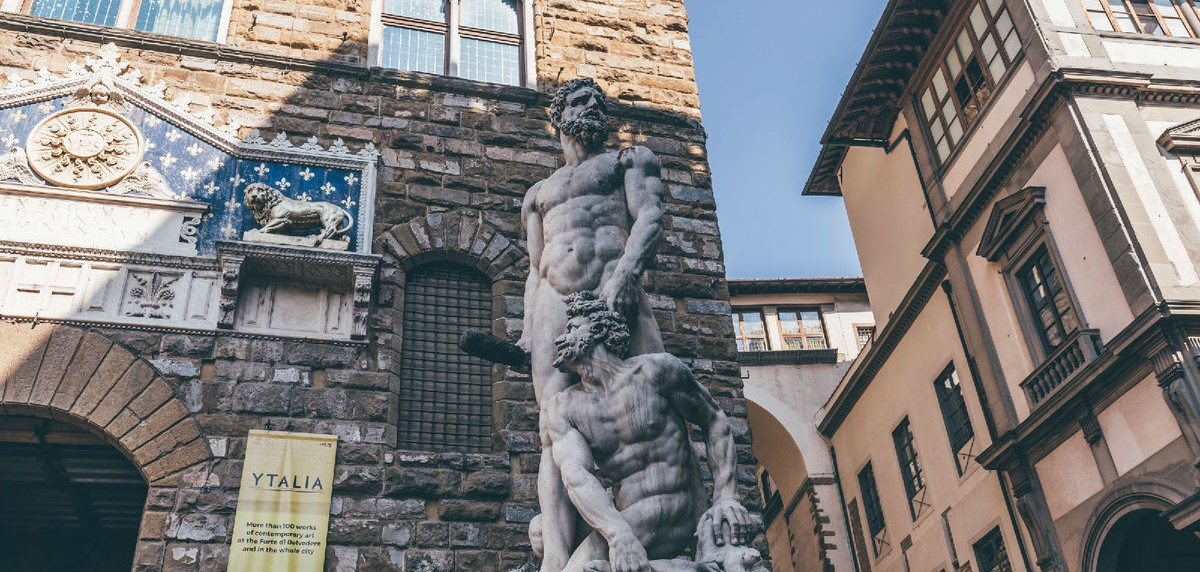
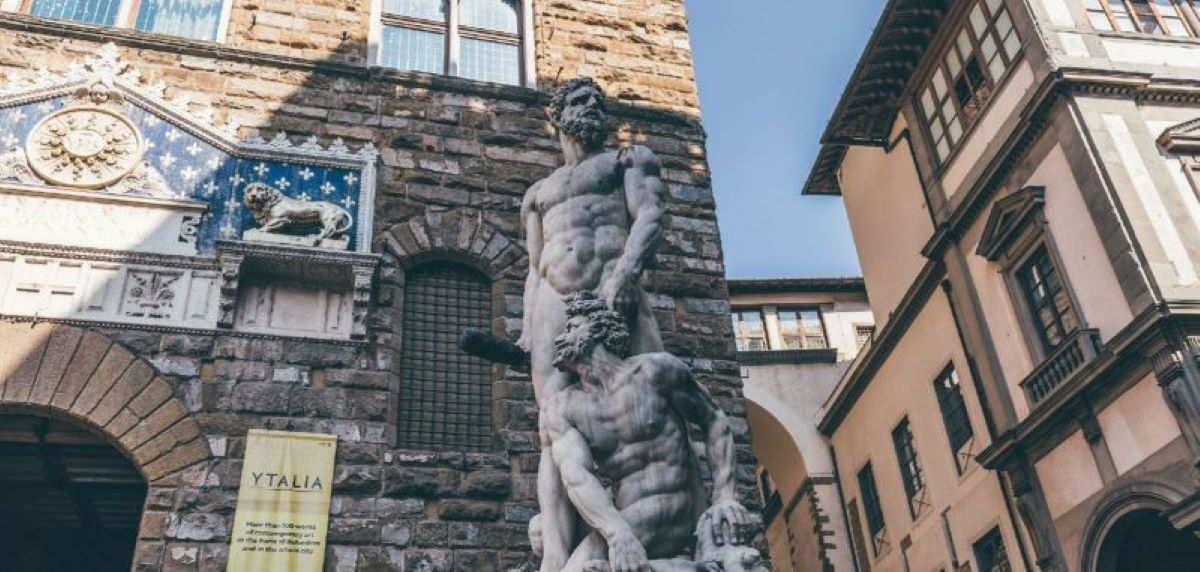
Site updated: 2020-02-03 23:36:19

diff --git a/2020/01/29/image/index.html b/2020/01/29/image/index.html
@@ -15,15 +15,15 @@
 
 
 
-<meta name="description" content="Storia di Hercules">
+<meta name="description" content="Storia di Hercules&amp;nbsp;">
 <meta property="og:type" content="article">
 <meta property="og:title" content="海克力斯">
 <meta property="og:url" content="http://yoursite.com/2020/01/29/image/index.html">
 <meta property="og:site_name" content="NutoFinche&#39;s blog">
-<meta property="og:description" content="Storia di Hercules">
+<meta property="og:description" content="Storia di Hercules&amp;nbsp;">
 <meta property="og:image" content="http://yoursite.com/2020/01/29/image/hcris2.jpg">
 <meta property="article:published_time" content="2020-01-29T10:00:51.000Z">
-<meta property="article:modified_time" content="2020-02-03T12:00:58.726Z">
+<meta property="article:modified_time" content="2020-02-03T15:33:58.777Z">
 <meta property="article:author" content="NutoFinche">
 <meta name="twitter:card" content="summary">
 <meta name="twitter:image" content="http://yoursite.com/2020/01/29/image/hcris2.jpg">
@@ -234,16 +234,20 @@
     <div class="article-entry" itemprop="articleBody">
       
           
-        <p><img src="/2020/01/29/image/hcris2.jpg" alt></p>
-<h1 id="Storia-di-Hercules"><a href="#Storia-di-Hercules" class="headerlink" title="Storia di Hercules"></a>Storia di Hercules</h1><br>
+        <div align="center">
+  <img src="/2020/01/29/image/hcris2.jpg" title="hercules" alt="hercules">
+</div>
+
+
+<h4 id="Storia-di-Hercules-nbsp"><a href="#Storia-di-Hercules-nbsp" class="headerlink" title=" Storia di Hercules&nbsp;"></a><p align="right"> Storia di Hercules&nbsp;</p></h4><br>
 <a id="more"></a>
 
 <blockquote>
-<p>&nbsp;&nbsp;他没什么智慧，却有丰富的情感，而且很容易冲动和失控，比如阿果号那一次，由于箭童许拉斯之死，他竟沉溺在绝望与哀伤之中，完全忘了其他同伴和此行的任务。<br>一个如此强壮的人，搭配如此深沉的情感，这种奇异的组合虽然令人喜爱，却也是一种祸害。<br>他如果突然一生气，旁边无辜的人就会遭殃。不过等他冷静下来，他就会真心诚意地忏悔，而且甘心接受惩罚。他若不同意，谁也无法惩罚他。<br><b>世间大概也没人像他那样，一辈子不断遭受惩罚。他一生大部分时间都在弥补过错，接受一次又一次的惩罚。有时即使别人不想惩罚他，他也会自己惩罚自己。</b></p>
+<p>他没什么智慧，却有丰富的情感，而且很容易冲动和失控，比如阿果号那一次，由于箭童许拉斯之死，他竟沉溺在绝望与哀伤之中，完全忘了其他同伴和此行的任务。<br>一个如此强壮的人，搭配如此深沉的情感，这种奇异的组合虽然令人喜爱，却也是一种祸害。<br>他如果突然一生气，旁边无辜的人就会遭殃。不过等他冷静下来，他就会真心诚意地忏悔，而且甘心接受惩罚。他若不同意，谁也无法惩罚他。<br><b>世间大概也没人像他那样，一辈子不断遭受惩罚。他一生大部分时间都在弥补过错，接受一次又一次的惩罚。有时即使别人不想惩罚他，他也会自己惩罚自己。</b></p>
 </blockquote>
 <p>&nbsp;</p>
 <blockquote>
-<p>&nbsp;&nbsp;&nbsp;&nbsp;“我该饶自己一命吗？”他说，“我一定要杀死自己，为死者报仇。”<br>      就在他要冲出去自杀，或者就在他开始动手之前，他原来绝望的心产生了改变，他的生命也得以保全。这个如假包换的奇迹召回了海克力斯的神智，使他从暂时的疯狂与暴力中清醒过来，忧伤地接<br>受了现实。创造这奇迹的，不是天上的众神，而是人类之间的友谊。原来忒修斯走到海克力斯面前，紧握着海克力斯染血的手。<br>根据希腊人的想法，忒修斯这个举动不但污染了自己，也分担了海克力斯部分的罪。<br>    &nbsp;&nbsp;&nbsp;&nbsp;“别害怕，别后退，”忒修斯跟海克力斯说，<b>“不要阻止我跟你分担一切。对我来说，跟你分担的恶并不是恶。听我说，灵魂强大的人能承受命运的打击，永不后退。</b>”<br>     &nbsp;&nbsp;&nbsp;&nbsp;“你知道我做了什么吗?”海克力斯问。<br>     &nbsp;&nbsp;&nbsp;&nbsp;“我知道，”忒修斯答道，“你的忧伤弥漫于天地之间。”<br>     &nbsp;&nbsp;&nbsp;&nbsp;“我理当一死。”海克力斯说。<br>     &nbsp;&nbsp;&nbsp;&nbsp;“英雄不该讲这种话。”忒修斯说。<br>     &nbsp;&nbsp;&nbsp;&nbsp;“除了死，我还能做什么？”海克力斯叫道，“活下去吗？一个被贴了标签的人该怎么活下去？大家会说:‘看哪，那个杀了妻儿的人’。不论我走到哪里，哪里就有狱卒，哪里就有像蝎子那么毒舌的人。</p>
+<p>&nbsp;&nbsp;&nbsp;&nbsp;“我该饶自己一命吗？” 他说，“我一定要杀死自己，为死者报仇。”<br>      就在他要冲出去自杀，或者就在他开始动手之前，他原来绝望的心产生了改变，他的生命也得以保全。这个如假包换的奇迹召回了海克力斯的神智，使他从暂时的疯狂与暴力中清醒过来，忧伤地接受了现实。创造这奇迹的，不是天上的众神，而是人类之间的友谊。原来忒修斯走到海克力斯面前，紧握着海克力斯染血的手。<br>根据希腊人的想法，忒修斯这个举动不但污染了自己，也分担了海克力斯部分的罪。<br>    &nbsp;&nbsp;&nbsp;&nbsp;“别害怕，别后退，” 忒修斯跟海克力斯说，“不要阻止我跟你分担一切。<b>对我来说，跟你分担的恶并不是恶。听我说，灵魂强大的人能承受命运的打击，永不后退。</b>”<br>     &nbsp;&nbsp;&nbsp;&nbsp;“你知道我做了什么吗?” 海克力斯问。<br>     &nbsp;&nbsp;&nbsp;&nbsp;“我知道，” 忒修斯答道，“你的忧伤弥漫于天地之间。”</p>
 </blockquote>
 <p>&nbsp;</p>
 <blockquote>
@@ -251,7 +255,7 @@
 </blockquote>
 <p>&nbsp;</p>
 <blockquote>
-<p><b>火焰向上燃烧，吞没了海克力斯。他升了天。<br>他终于与赫拉和解。</b></p>
+<p>“这是休息，” 他说，“这是结束。” 他们把他送到柴堆顶端，他很高兴地躺下来，犹如参加宴会的人躺在卧榻上一样。<br><b>火焰向上燃烧，吞没了海克力斯。</b><br>他升了天。他终于与赫拉和解。</p>
 </blockquote>
 <br>
 <p align="right">-- 《希腊罗马神话》伊迪斯·汉密尔顿 </p>
@@ -281,7 +285,7 @@
     <div id="toc" class="toc-article">
         <strong class="toc-title">文章目录</strong>
         
-            <ol class="toc"><li class="toc-item toc-level-1"><a class="toc-link" href="#Storia-di-Hercules"><span class="toc-number">1.</span> <span class="toc-text">Storia di Hercules</span></a></li></ol>
+            <ol class="toc"><li class="toc-item toc-level-4"><a class="toc-link" href="#Storia-di-Hercules-nbsp"><span class="toc-number">1.</span> <span class="toc-text"> Storia di Hercules&amp;nbsp;</span></a></li></ol>
         
     </div>
     <style>

diff --git a/css/style.css b/css/style.css
@@ -118,7 +118,7 @@ button::-moz-focus-inner {
   padding: 0;
 }
 html {
-  font-size: 14px;
+  font-size: 15px;
 }
 body {
   font-family: "Lucida Grande", Verdana, "Helvetica Neue", Arial, "Microsoft YaHei", "PingFang SC", "Hiragino Sans GB", "WenQuanYi Micro Hei", sans-serif;
@@ -552,7 +552,7 @@ a {
   text-align: center;
   margin: 13px 0;
   font-family: Times, Georgia, serif;
-  font-size: 28px;
+  font-size: 29px;
   -webkit-transition: 0.3s;
   -moz-transition: 0.3s;
   -ms-transition: 0.3s;
@@ -572,8 +572,8 @@ a {
   display: block;
   border: 5px solid #fff;
   border-radius: 50%;
-  width: 126px;
-  height: 126px;
+  width: 127px;
+  height: 127px;
   margin: 0 auto;
   position: relative;
   overflow: hidden;
@@ -751,13 +751,13 @@ a {
   font-family: Arial;
 }
 #header .header-nav .social a {
-  width: 35px;
-  height: 35px;
+  width: 36px;
+  height: 36px;
   border-radius: 50%;
   margin: 0 2px 6px;
   vertical-align: middle;
-  font-size: 23.1px;
-  line-height: 35px;
+  font-size: 23.76px;
+  line-height: 36px;
   text-align: center;
   color: #fff;
   background: #6f7170;
@@ -1205,7 +1205,7 @@ color
   color: #999;
   position: relative;
   margin-right: 10px;
-  font: 14px FontAwesome;
+  font: 15px FontAwesome;
 }
 .archive-article-inner .article-meta .article-category:before {
   float: left;
@@ -1694,7 +1694,7 @@ li:hover {
   bottom: 1em;
   left: 0;
   margin-left: 0;
-  padding: 6px 10px 10px 54px;
+  padding: 6px 10px 10px 52px;
   border-radius: 2.8%;
   overflow: auto;
 }
@@ -2059,7 +2059,7 @@ aside.comment-bar:active {
   color: #999;
   position: relative;
   margin-right: 10px;
-  font: 14px FontAwesome;
+  font: 15px FontAwesome;
 }
 .archive-article-inner .article-meta .article-category:before {
   float: left;
@@ -2831,7 +2831,7 @@ pre .javascript .function {
 .article-category::before {
   float: left;
   color: #999;
-  font: 14px FontAwesome;
+  font: 15px FontAwesome;
   margin-right: 5px;
   margin-top: 0.333333333333333rem;
 }
@@ -2848,7 +2848,7 @@ pre .javascript .function {
 .article-pop-out:before {
   color: #999;
   content: "\f08d";
-  font: 14px FontAwesome;
+  font: 15px FontAwesome;
   float: left;
   margin-right: 5px;
   margin-top: 0.333333333333333rem;

diff --git a/index.html b/index.html
@@ -231,8 +231,12 @@
     <div class="article-entry" itemprop="articleBody">
       
           
-              <p><img src="/2020/01/29/image/hcris2.jpg" alt></p>
-<h1 id="Storia-di-Hercules"><a href="#Storia-di-Hercules" class="headerlink" title="Storia di Hercules"></a>Storia di Hercules</h1><br>
+              <div align="center">
+  <img src="/2020/01/29/image/hcris2.jpg" title="hercules" alt="hercules">
+</div>
+
+
+<h4 id="Storia-di-Hercules-nbsp"><a href="#Storia-di-Hercules-nbsp" class="headerlink" title=" Storia di Hercules&nbsp;"></a><p align="right"> Storia di Hercules&nbsp;</p></h4><br>
           
       
     </div>
